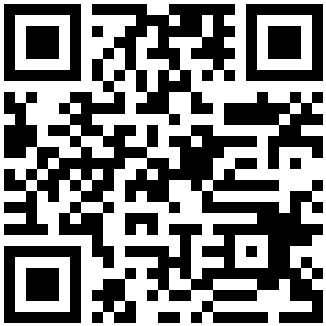
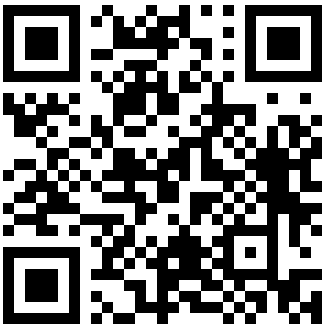
Updated payment account including QR code.

diff --git a/index.html b/index.html
@@ -374,8 +374,8 @@
         <div class="contact-item">
           <div class="portfolio-item">
             <div class="hover-bg"> 
-              Účet: <a href="img/bank-account-qr.png" title="QR kód pro platbu (10&nbsp;19&nbsp;63&nbsp;17&nbsp;12/6100)" data-lightbox-gallery="gallery-qr">
-                10&nbsp;19&nbsp;63&nbsp;17&nbsp;12/6100
+              Účet: <a href="img/bank-account-qr.png" title="QR kód pro platbu (10&nbsp;19&nbsp;63&nbsp;17&nbsp;12/5500)" data-lightbox-gallery="gallery-qr">
+                10&nbsp;19&nbsp;63&nbsp;17&nbsp;12/5500
               </a> 
             </div>
             </div>
